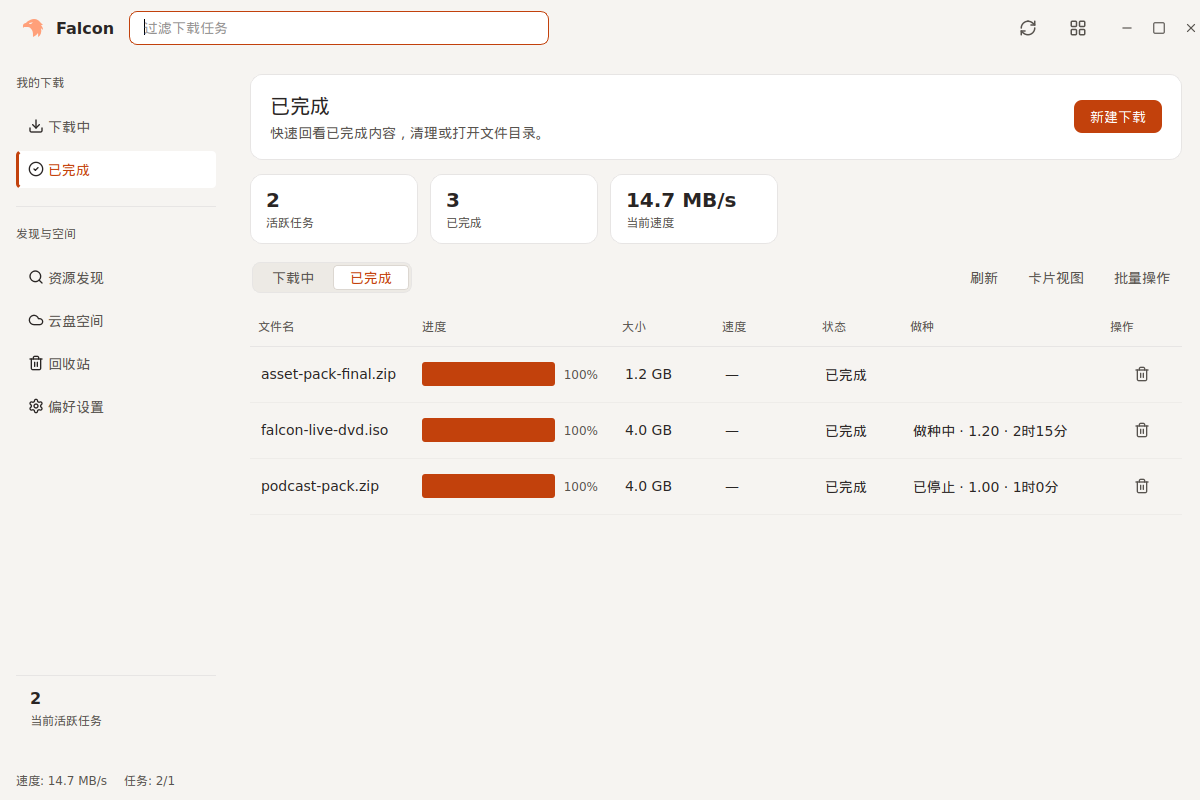
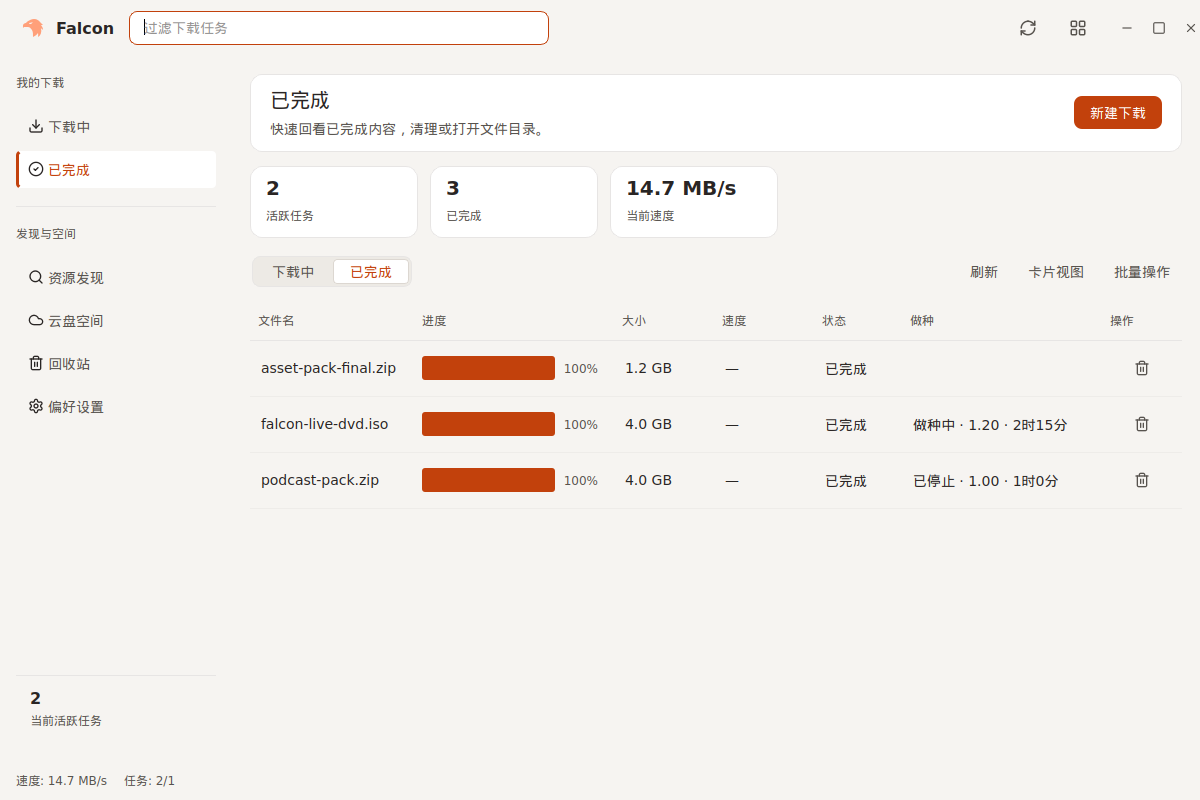
fix: 下载页 hero 卡与统计卡固定高度紧凑化（用户 bug B1）
- hero 卡 setFixedHeight(78)、三张统计卡 setFixedHeight(72)，纵向
  margins 收紧（hero 18→12 / 卡 14→10）——此前无固定高度约束，
  纵向空间随窗口与字体度量被布局拉伸，统计区占一大块
- 宽度三等分与 168px 卡宽维持不变（用户口径：只收高度）
- ui_sandbox 52 张正式设计资产同步刷新（新布局基线）
- 前后对比已核验：hero 86px→78px、统计卡拉伸态→固定 72px，
  亮/暗双主题 + 1200/960 双尺寸无裁字无破版

diff --git a/apps/desktop/src/pages/download_page.cpp b/apps/desktop/src/pages/download_page.cpp
@@ -34,6 +34,9 @@ namespace falcon::desktop {
 namespace {
 constexpr int kRowHeight = 56;
 constexpr int kSummaryCardWidth = 168;
+// 紧凑横条标准（用户 bug 反馈）：hero 与统计卡固定高度，纵向空白不随窗口拉伸
+constexpr int kHeroHeight = 78;
+constexpr int kSummaryCardHeight = 72;
 
 // 快照状态 → 界面中文文案（引擎状态名不外露）
 QString status_display_text(falcon::TaskStatus status)
@@ -114,9 +117,11 @@ void DownloadPage::create_hero_section()
 {
     auto* hero_container = new QWidget(this);
     hero_container->setObjectName("downloadHero");
+    // 紧凑横条：固定高度，禁止被布局纵向拉伸（用户 bug 反馈）
+    hero_container->setFixedHeight(kHeroHeight);
 
     auto* hero_layout = new QHBoxLayout(hero_container);
-    hero_layout->setContentsMargins(20, 18, 20, 18);
+    hero_layout->setContentsMargins(20, 12, 20, 12);
     hero_layout->setSpacing(16);
 
     auto* text_layout = new QVBoxLayout();
@@ -153,9 +158,11 @@ void DownloadPage::create_summary_cards()
         auto* card = new QWidget(this);
         card->setObjectName("summaryCard");
         card->setFixedWidth(kSummaryCardWidth);
+        // 紧凑数值卡：固定高度，禁止被布局纵向拉伸（用户 bug 反馈）
+        card->setFixedHeight(kSummaryCardHeight);
 
         auto* card_layout = new QVBoxLayout(card);
-        card_layout->setContentsMargins(16, 14, 16, 14);
+        card_layout->setContentsMargins(16, 10, 16, 10);
         card_layout->setSpacing(2);
 
         auto* value = new QLabel("0", card);
